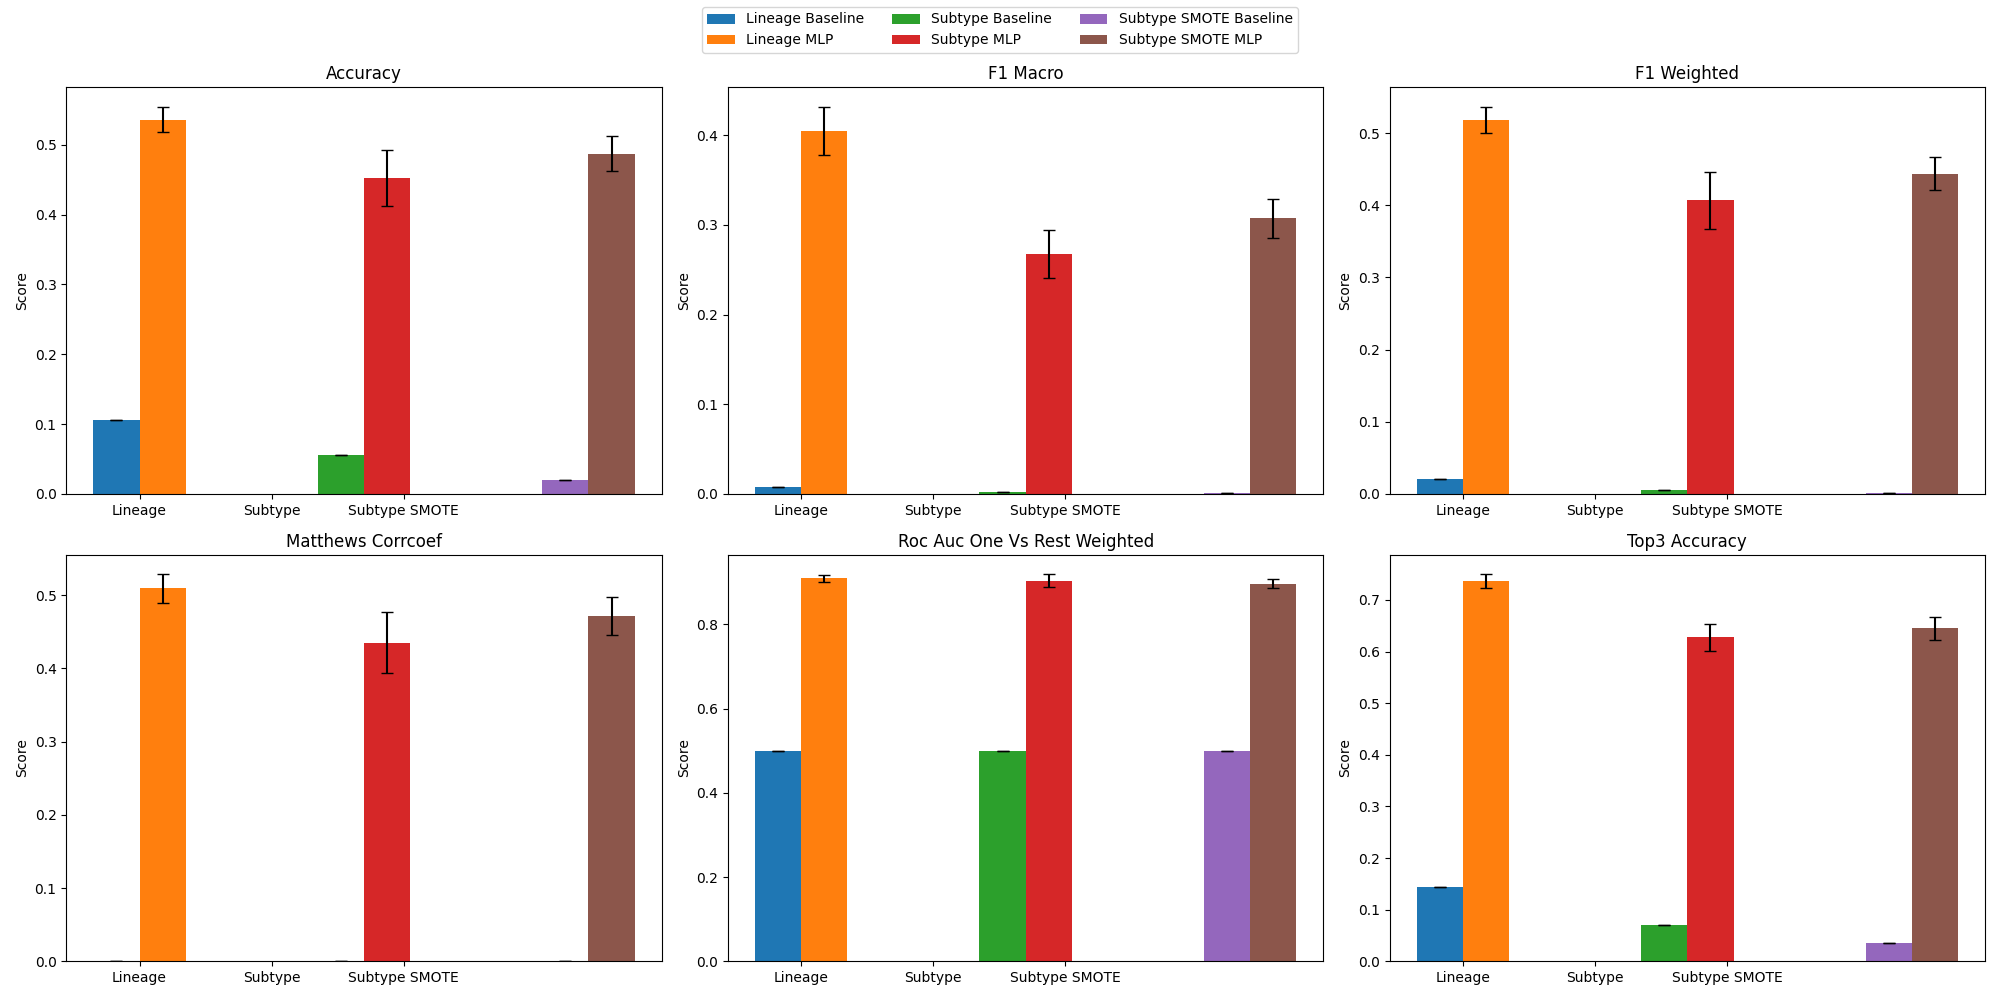
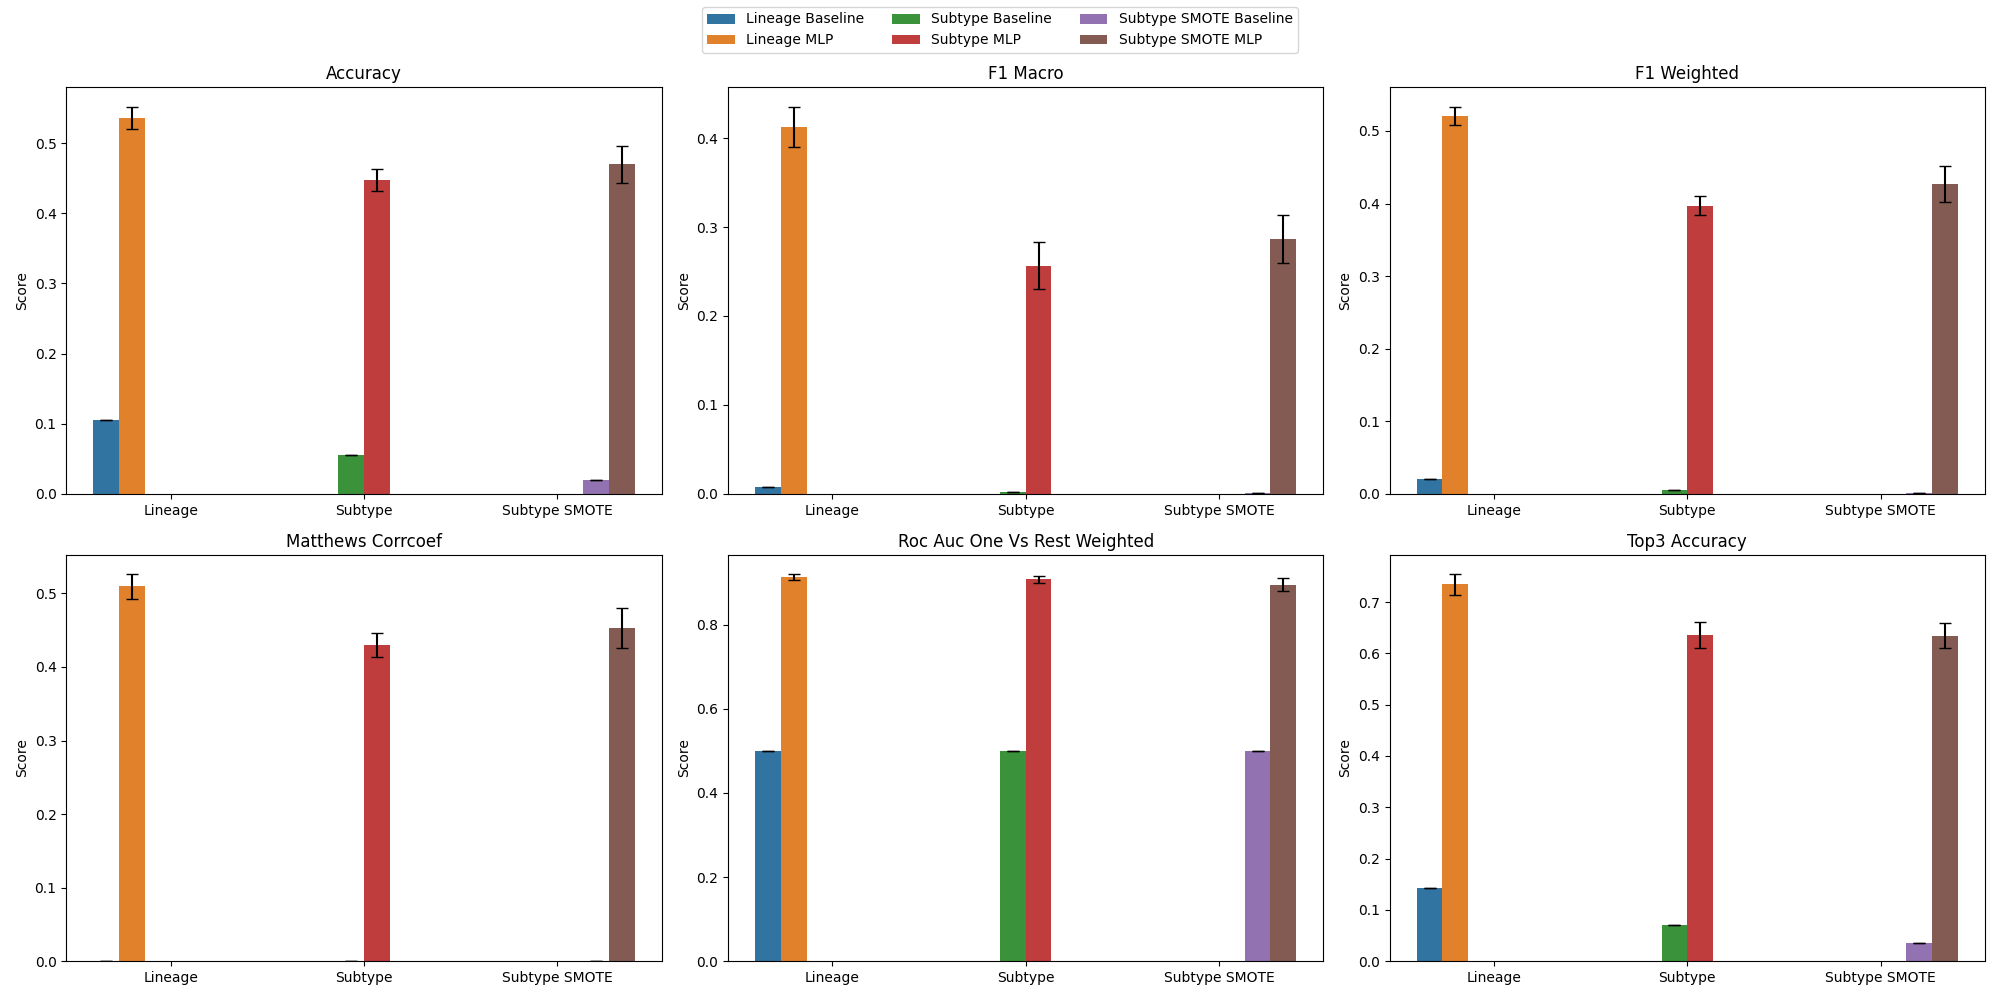
Added some notes about run time to readme, modified plotting for error bars to make it cleaner and better organized, updated output from that modification

diff --git a/final.py b/final.py
@@ -508,42 +508,51 @@ if __name__ == "__main__":
     for i, metric in enumerate(metrics):
         subset = plot_df[plot_df["metric"] == metric]
 
+        sns.barplot(
+            data=subset,
+            x="experiment",
+            y="mean",
+            hue="model",
+            ax=axes[i],
+            legend=(i == 0),
+        )
+
+        # Manually overlay error bars using pre-computed std
         models = subset["model"].unique()
         experiments = subset["experiment"].unique()
+        n_models = len(models)
+        n_experiments = len(experiments)
 
-        x_base = np.arange(len(experiments))
-        width = 0.35
+        group_width = 0.8
+        bar_width = group_width / n_models
+        offsets = np.linspace(-group_width / 2 + bar_width / 2, group_width / 2 - bar_width / 2, n_models)
 
         for j, model in enumerate(models):
-            model_data = subset[subset["model"] == model].set_index("experiment")
-
-            # force consistent order
-            model_data = model_data.reindex(experiments)
-
-            means = model_data["mean"].values
-            stds = model_data["std"].values
-
-            x = x_base + j * width
-
-            axes[i].bar(x, means, width=width, label=model)
-
+            model_data = subset[subset["model"] == model].set_index("experiment").reindex(experiments)
+            x_positions = np.arange(n_experiments) + offsets[j]
             axes[i].errorbar(
-                x,
-                means,
-                yerr=stds,
-                fmt='none',
+                x_positions,
+                model_data["mean"].values,
+                yerr=model_data["std"].values,
+                fmt="none",
                 capsize=4,
-                color='black'
+                color="black",
+                linewidth=1.5,
             )
-
-        axes[i].set_xticks(x_base + width / 2)
-        axes[i].set_xticklabels(experiments)
 
         axes[i].set_title(metric.replace("_", " ").title())
         axes[i].set_ylabel("Score")
         axes[i].set_xlabel("")
+        if i != 0:
+            legend = axes[i].get_legend()
+            if legend:
+                legend.remove()
+
     handles, labels = axes[0].get_legend_handles_labels()
-    fig.legend(handles, labels, loc='upper center', ncol=3)
+    fig.legend(handles, labels, loc="upper center", ncol=3)
+    legend = axes[0].get_legend()
+    if legend:
+        legend.remove()
 
     plt.tight_layout(rect=[0, 0, 1, 0.95])
     plt.savefig("outputs/results_with_errorbars.png")

diff --git a/README.md b/README.md
@@ -1,4 +1,24 @@
-# MPHY6120-Final-MJ-Harry-Riza
-Final project repository for MPHY6120
-Required libraries: pandas, numpy, matplotlib, seaborn, sklearn, torch, imblearn, shap
-Can install using uv add after creating venv.
+**MPHY 6120 - Final: Predicting Cancer Lineage and Subtype with MLP**
+
+## Overview
+- PLEASE NOTE: Running this code was designed around CPU usage and was not tested for GPU. On CPU, it will take 5-10 minutes to run depending on CPU type, so please be patient.
+- Data loading and processing with imputation and insufficient class size exclusion.
+- EDA: Sample gene correlations, distributions of dependency scores, class imbalance visualizations, correlations between genes and lineages/subtypes
+- Preparation of data splitting with and without SMOTE.
+- MLP neural network architecture using Plateau Scheduler, CrossEntropyLoss, Adam optimizer.
+- Using training and validation data on the model.
+- Using testing data on MLP and baseline (most_frequent strategy).
+- Evaluating with Accuracy, Top 3 Accuracy, F1-Macro, F1-Weighted, AUC-ROC, Matthews Correlation Coefficient.
+- Using SHAP to see most important features (genes).
+
+## Set-Up
+```bash
+uv venv
+source .venv/bin/activate  # macOS/Linux
+uv pip install pandas numpy matplotlib seaborn sklearn torch imblearn shap
+```
+
+## Datasets
+- CRISPR Dependency Scores (data/crispr_data.csv): Dependency of cancer samples on 500 genes, testing via CRISPR KO & remaining viability
+- Cancer Lineage (data/lineage_data.csv): Lineage of each cancer
+- Cancer Subtype (data/subtype_data.csv): Subtype of each cancer (more specific classification within lineage)
